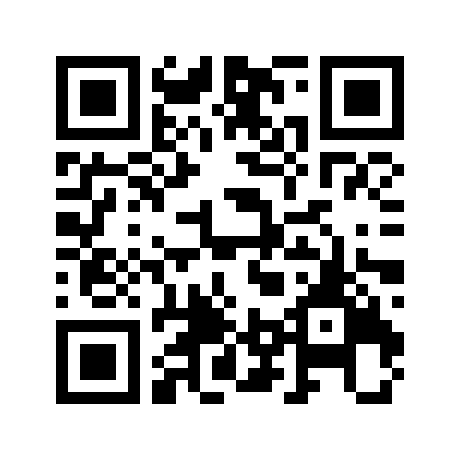
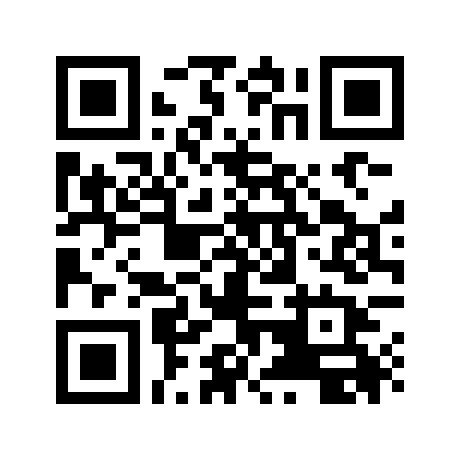
QRCode Generated Example Update

Changed region(s): [[0.1217, 0.1217, 0.8826, 0.8826]]

diff --git a/src/QRCodeGeneratorExample.java b/src/QRCodeGeneratorExample.java
@@ -8,7 +8,7 @@ import java.io.FileOutputStream;
 public class QRCodeGeneratorExample {
 
     public static void main(String[] args) throws Exception {
-        String details = "Saurabh Kashyap : full stack Developer";
+        String details = "https://github.com/saurabharch/saurabharch";
         ByteArrayOutputStream out = QRCode.from(details).to(ImageType.PNG).withSize(460,460).stream(); // ByteArrayOutputStream only takes stream
         File f = new  File("D:\\SpringTest_Source\\JavaPrep\\lib\\MyQRCode.png");
         FileOutputStream fos = new FileOutputStream(f);
